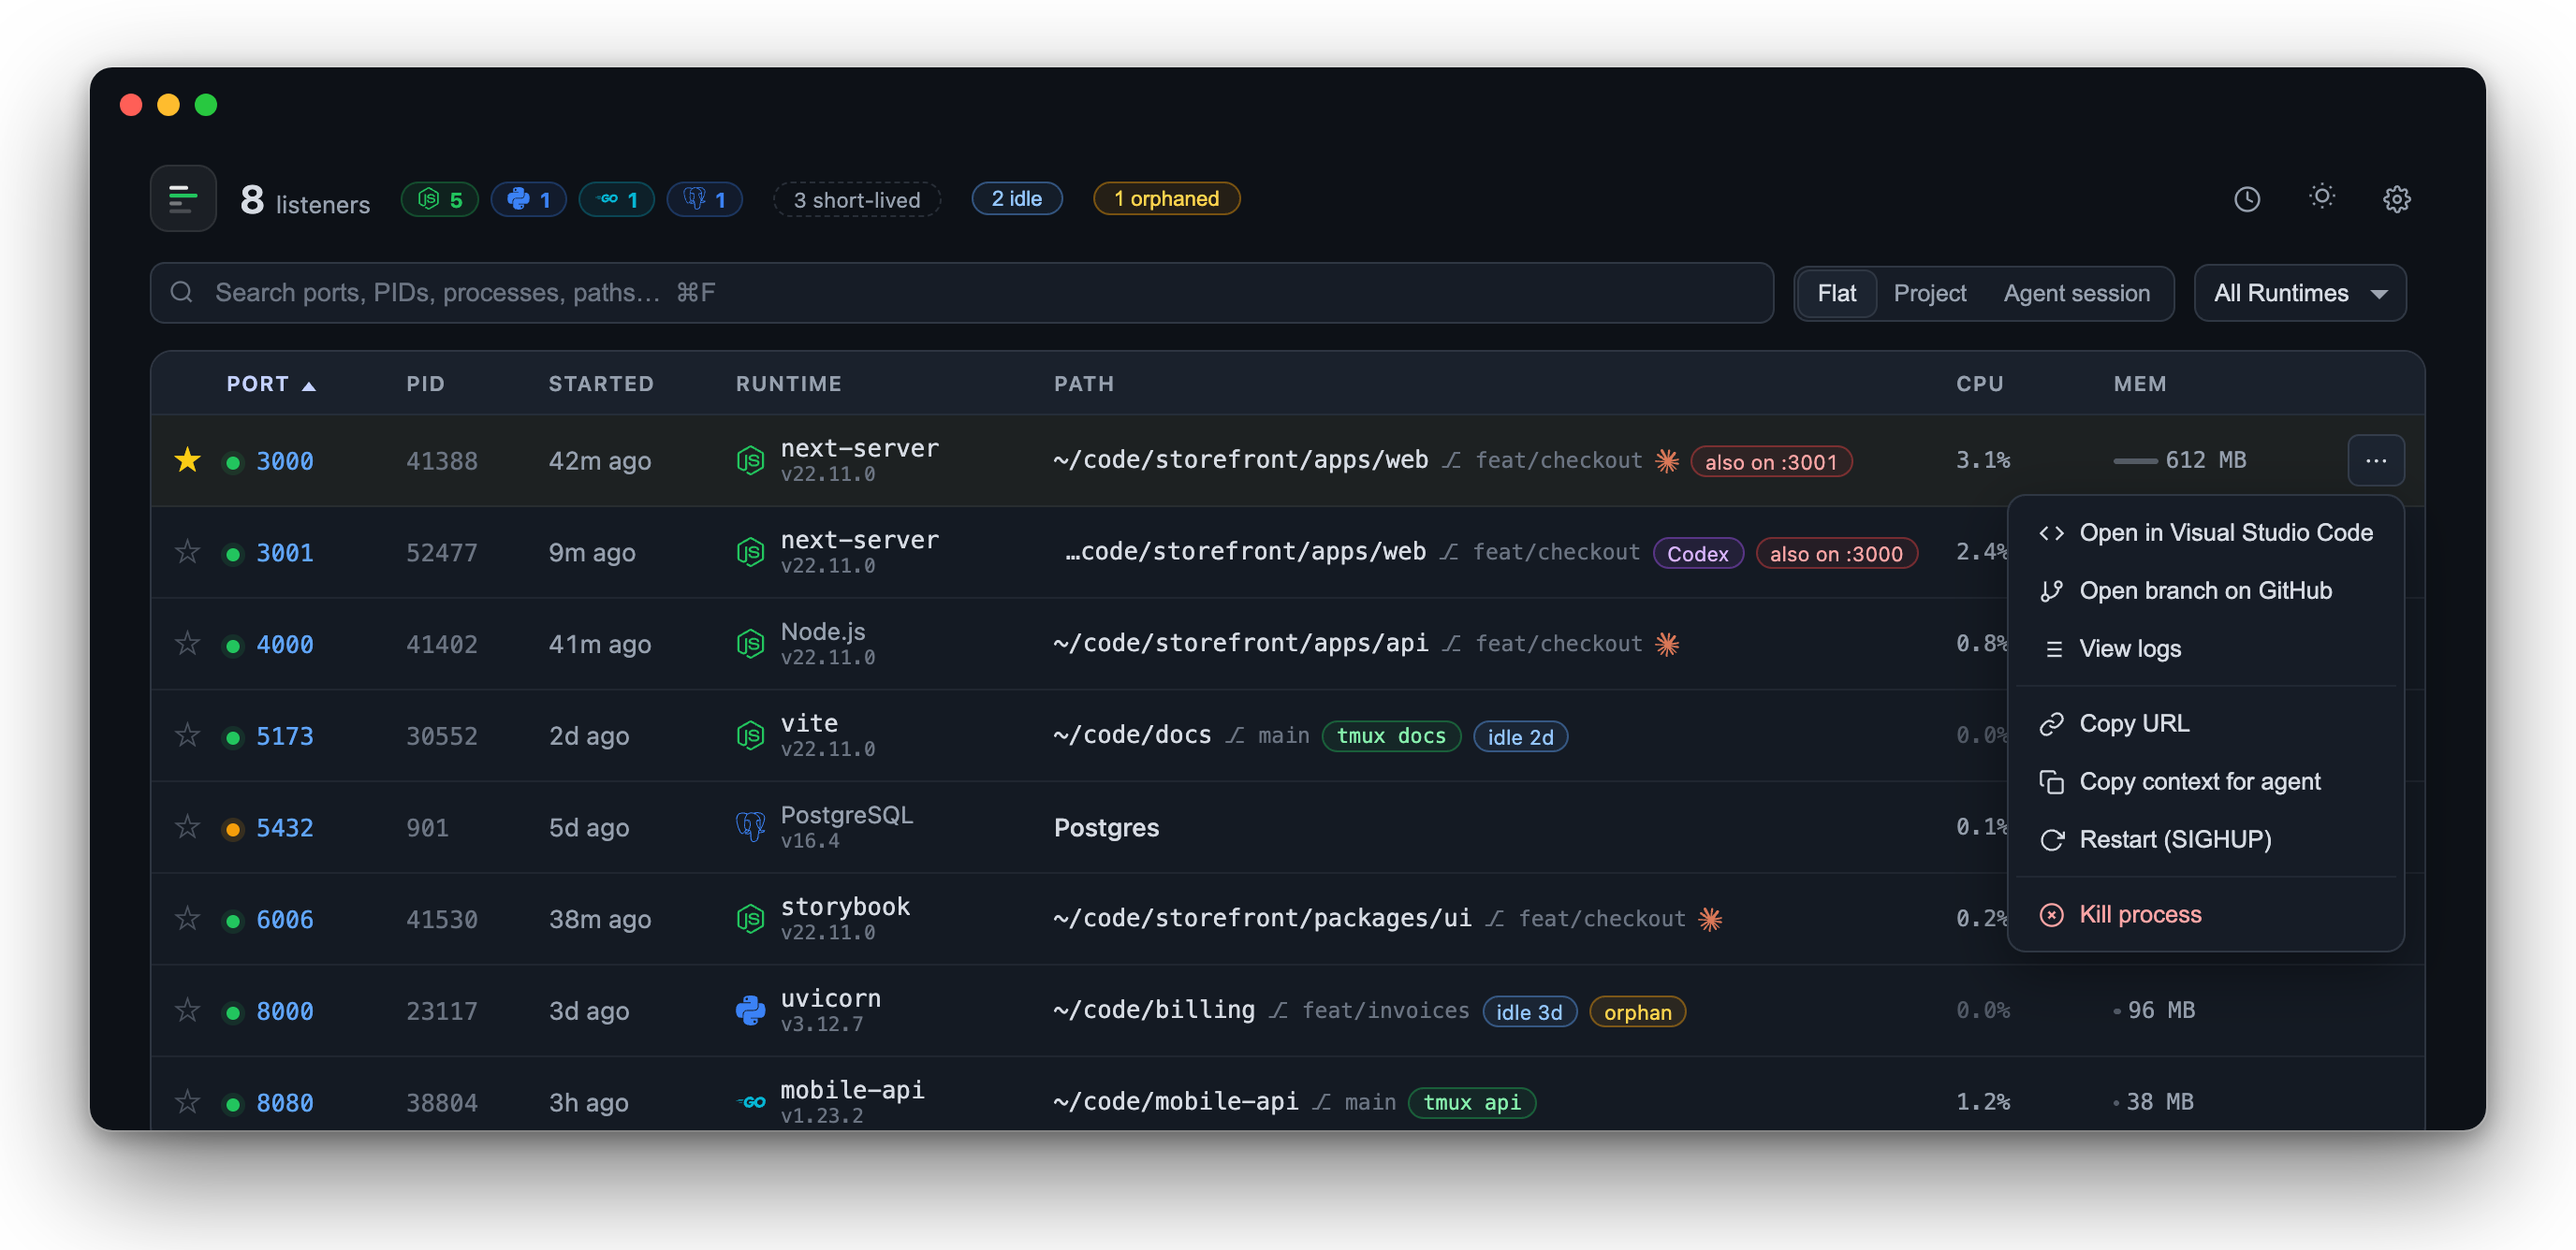
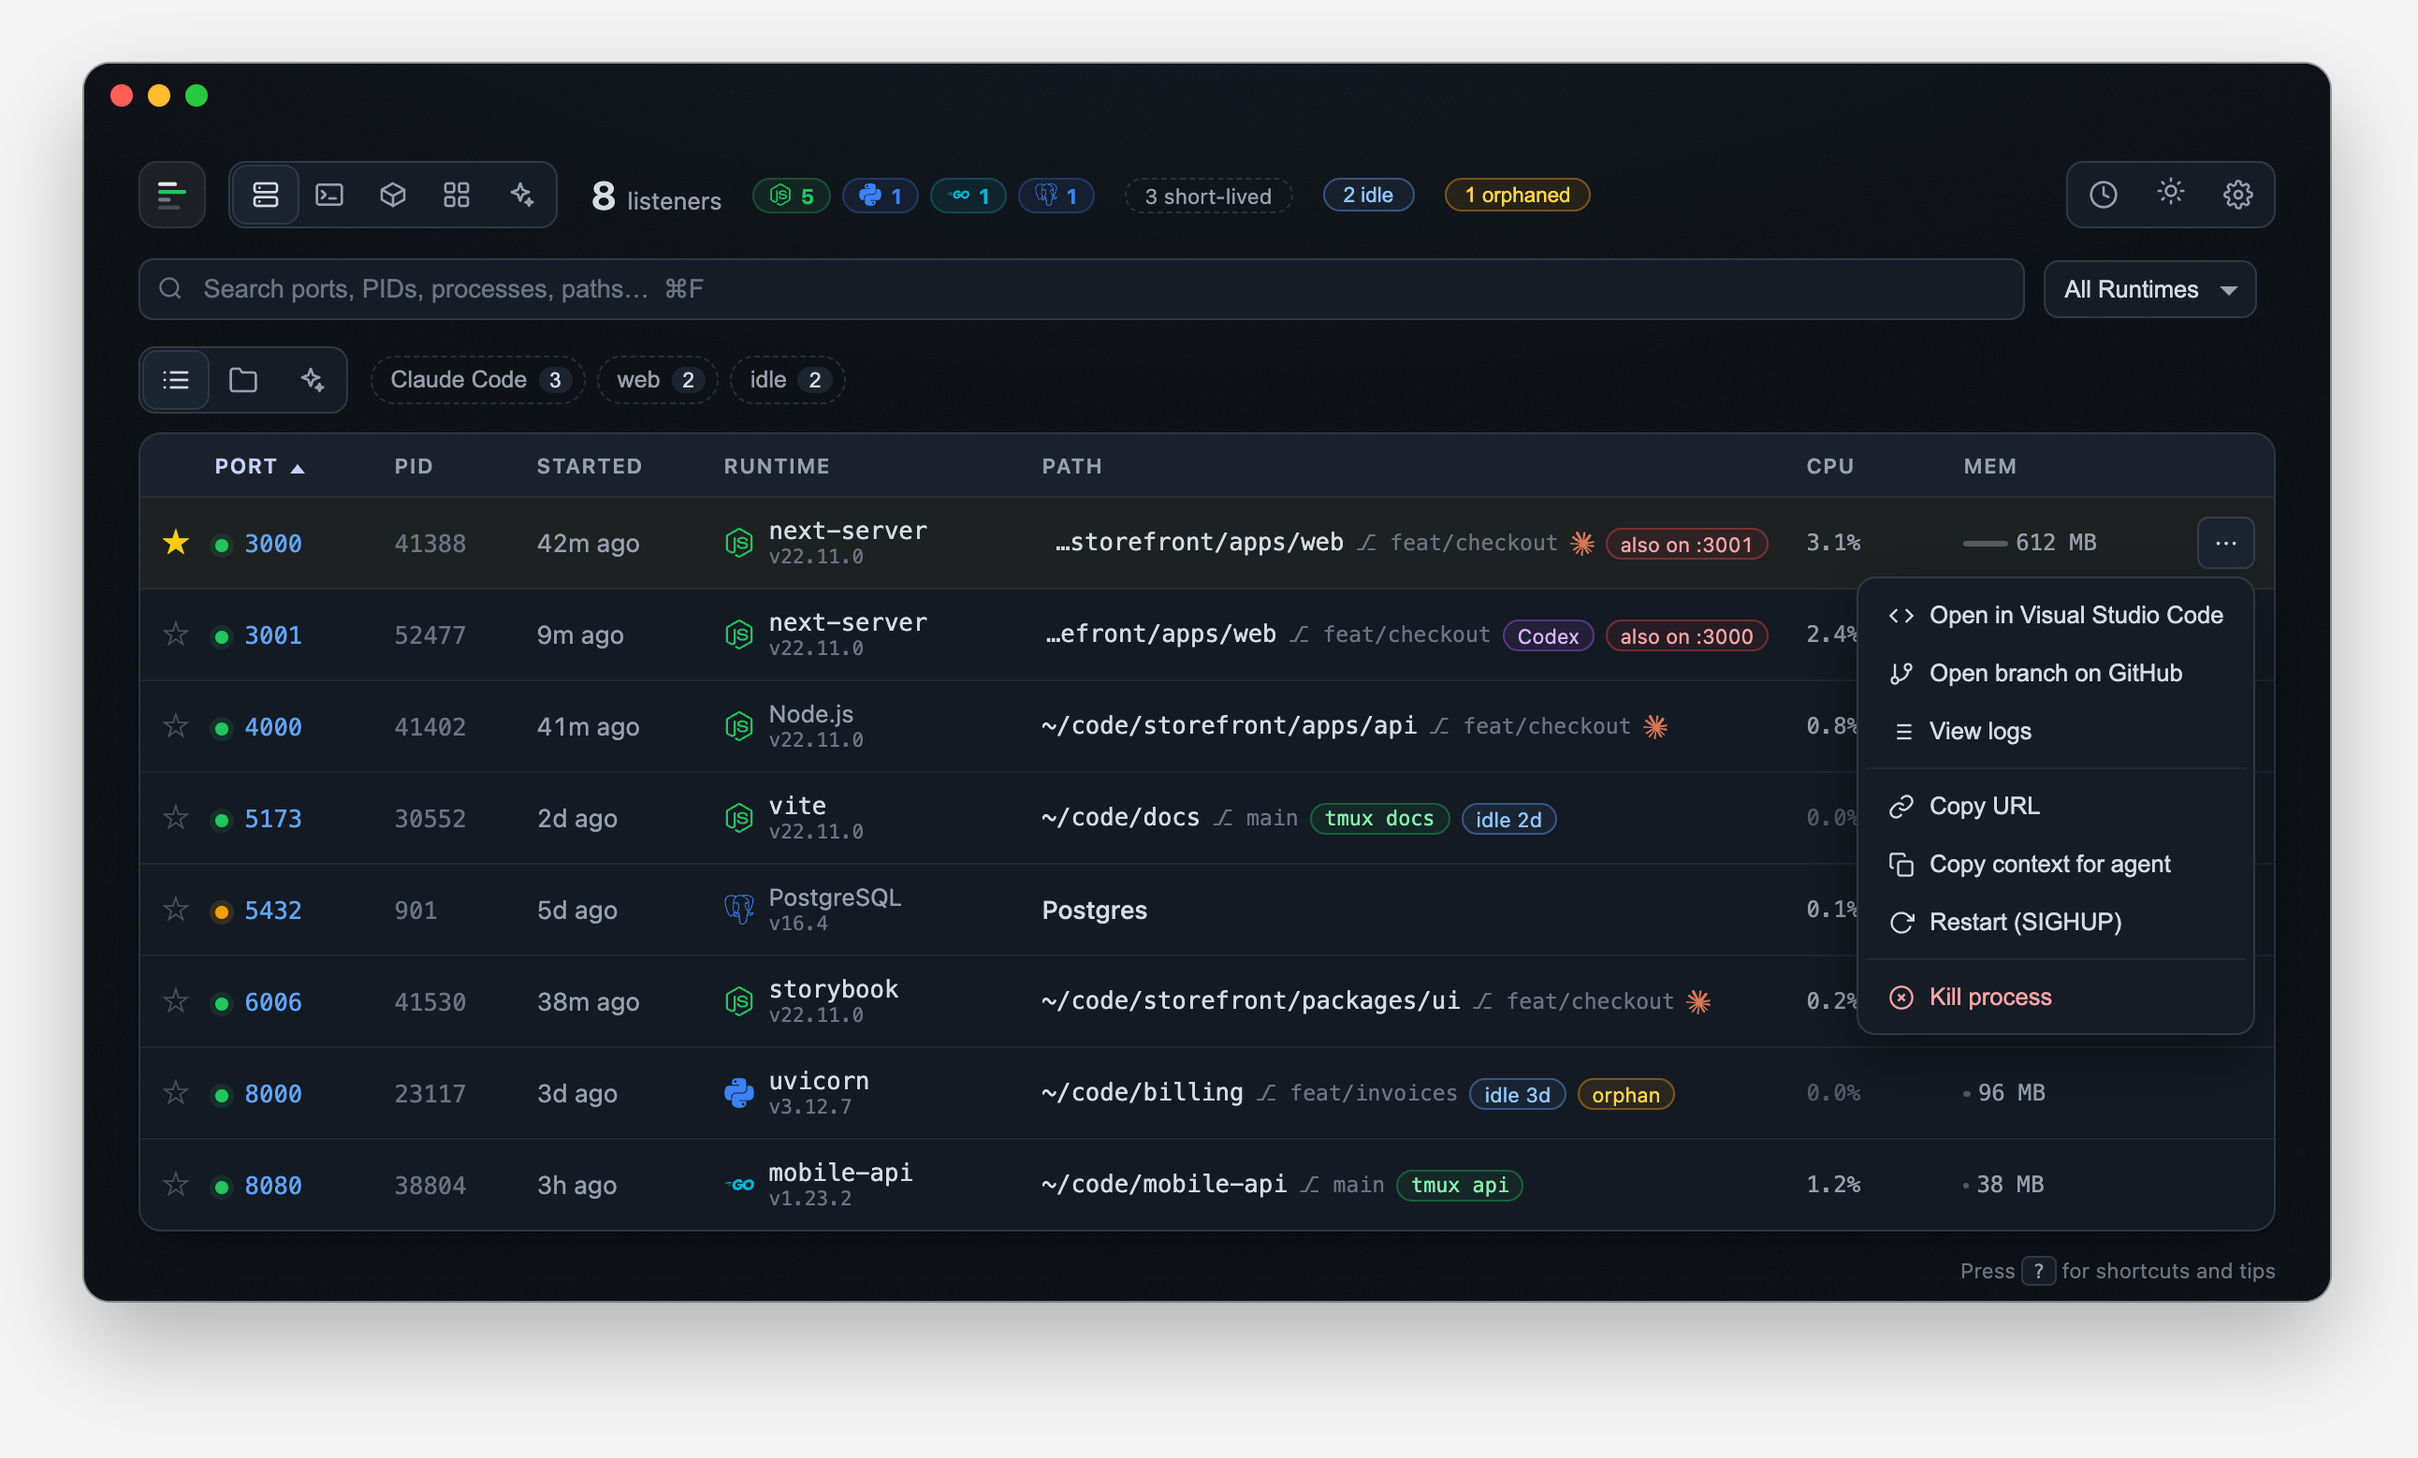
docs: screenshots for every tab, demo data for new tabs

diff --git a/demo.js b/demo.js
@@ -59,4 +59,102 @@ function demoTransient() {
   ];
 }
 
-module.exports = { demoPorts, demoTransient };
+// ── The other tabs ──────────────────────────────────────────────────
+const at = ago => Date.now() - ago;
+const gh = repo => `https://github.com/acme/${repo}`;
+
+function demoSessions() {
+  const base = { state: 'running', canOpen: true, canShow: true, canKill: true, canRename: true, idle: false };
+  const rows = [
+    { mux: 'tmux', id: 'storefront', attached: true, createdAt: at(5 * hour), lastActive: at(20 * 1000), windows: 3, panes: 4,
+      cwd: `${HOME}/code/storefront`, branch: 'feat/checkout', github: gh('storefront'), agents: ['Claude Code'],
+      agentState: { status: 'working', since: at(3 * min) }, ports: [3000, 4000, 6006] },
+    { mux: 'tmux', id: 'api', attached: false, createdAt: at(3 * hour), lastActive: at(12 * min), windows: 2, panes: 2,
+      cwd: `${HOME}/code/mobile-api`, branch: 'main', github: gh('mobile-api'), agents: [], agentState: null, ports: [8080] },
+    { mux: 'tmux', id: 'docs', attached: false, createdAt: at(2 * day), lastActive: at(2 * day), windows: 1, panes: 1,
+      cwd: `${HOME}/code/docs`, branch: 'main', github: gh('docs'), agents: [], agentState: null, ports: [5173], idle: true },
+    { mux: 'herdr', id: 't3', name: 'storefront / payments', attached: null, createdAt: at(26 * hour), lastActive: null, canRename: false,
+      cwd: `${HOME}/code/storefront`, branch: 'feat/payments', github: gh('storefront'), agents: ['Claude Code'],
+      agentState: { status: 'needs-you', since: at(4 * min) }, ports: [] },
+    { mux: 'herdr', id: 't5', name: 'billing / invoices', attached: null, createdAt: at(3 * day), lastActive: null, canRename: false,
+      cwd: `${HOME}/code/billing`, branch: 'feat/invoices', github: gh('billing'), agents: ['Codex'], agentState: { status: 'idle', since: null }, ports: [] },
+    { mux: 'herdr', id: 't6', name: 'design-system / tokens', attached: null, createdAt: at(4 * day), lastActive: null, canRename: false,
+      cwd: `${HOME}/code/design-system`, branch: 'chore/tokens', github: gh('design-system'), agents: ['Claude Code'],
+      agentState: { status: 'idle', since: at(40 * min) }, ports: [] },
+  ];
+  return {
+    sessions: rows.map(r => ({ ...base, name: r.id, ...r, key: `${r.mux}:${r.id}` })),
+    muxes: [{ mux: 'tmux', label: 'tmux', available: true }, { mux: 'herdr', label: 'Herdr', available: true }, { mux: 'zellij', label: 'Zellij', available: false }],
+  };
+}
+
+function demoAgents() {
+  const a = (pid, agent, name, state, cwd, branch, where, up, memMB, processes, ports = []) => ({
+    pid: String(pid), agent, name, state, cwd: `${HOME}/code/${cwd}`, branch, where,
+    sessionId: agent === 'Claude Code' ? `5f0c${pid}-demo` : null, startedAt: at(up), cpu: 0, memMB, processes, ports,
+  });
+  return { agents: [
+    a(41200, 'Claude Code', 'storefront', { status: 'working', since: at(3 * min) }, 'storefront', 'feat/checkout', { mux: 'tmux', id: 'storefront', name: 'storefront', target: '0.0' }, 5 * hour, 1210, 9, [3000, 4000, 6006]),
+    a(44710, 'Claude Code', 'payments', { status: 'needs-you', since: at(4 * min) }, 'storefront', 'feat/payments', { mux: 'herdr', id: 't3', name: 'storefront / payments' }, 26 * hour, 402, 3),
+    a(52310, 'Codex', 'storefront', null, 'storefront', 'feat/checkout', { app: 'Ghostty' }, 9 * min, 640, 4, [3001]),
+    a(47002, 'Claude Code', 'review-bot', { status: 'working', since: at(1 * min) }, 'storefront', 'feat/checkout', { background: true }, 14 * min, 318, 2),
+    a(39920, 'Claude Code', 'tokens', { status: 'idle', since: at(40 * min) }, 'design-system', 'chore/tokens', { mux: 'herdr', id: 't6', name: 'design-system / tokens' }, 4 * day, 287, 1),
+    a(36114, 'Claude Code', 'mobile-api', { status: 'idle', since: at(2 * hour) }, 'mobile-api', 'main', { app: 'Ghostty' }, 7 * hour, 344, 2),
+    a(30071, 'Codex', 'invoices', null, 'billing', 'feat/invoices', { mux: 'herdr', id: 't5', name: 'billing / invoices' }, 3 * day, 120, 2),
+    a(22981, 'OpenCode', 'billing', null, 'billing', 'feat/invoices', { detached: true, parent: null }, 3 * day, 96, 1),
+  ] };
+}
+
+// Real app bundles on this Mac give the icons; everything else is made up
+function demoApps() {
+  const GB = 1024;
+  const app = (name, kind, path, bundleId, memMB, cpu, procs, extra = {}) => ({
+    name, kind, path, bundleId, memMB, cpu, pid: String(1000 + name.length * 37 + memMB % 97),
+    launchedAt: at(extra.up || 2 * day), front: !!extra.front, arch: 'ARM64', version: extra.version || null,
+    electron: !!extra.electron, system: !!extra.system, user: false, ports: extra.ports || [],
+    processes: Array.from({ length: procs }, (_, i) => ({ pid: String(2000 + i + name.length * 50), name: i ? `${name} Helper` : name, own: true, cpu: i ? 0.1 : cpu, memMB: Math.round(memMB / procs), startedAt: at(extra.up || 2 * day) })),
+  });
+  return { apps: [
+    app('Google Chrome', 'app', '/Applications/Google Chrome.app', 'com.google.Chrome', 3.4 * GB, 12.1, 31, { version: '142.0.7444.60' }),
+    app('Slack', 'app', '/Applications/Slack.app', 'com.tinyspeck.slackmacgap', 1.2 * GB, 1.4, 7, { version: '4.47.59', electron: true }),
+    app('Zed', 'app', '/Applications/Zed.app', 'dev.zed.Zed', 880, 2.2, 4, { version: '0.211.4', up: 6 * hour }),
+    app('Ghostty', 'app', '/Applications/Ghostty.app', 'com.mitchellh.ghostty', 640, 3.8, 3, { version: '1.3.1', front: true, up: 9 * hour }),
+    app('Notion', 'app', '/Applications/Notion.app', 'notion.id', 590, 0.6, 6, { version: '6.2.0', electron: true, up: 1 * day }),
+    app('OrbStack', 'app', '/Applications/OrbStack.app', 'dev.kdrag0n.MacVirt', 410, 1.1, 5, { version: '2.0.4', ports: [5432, 6379], up: 5 * day }),
+    app('Raycast', 'menu', '/Applications/Raycast.app', 'com.raycast.macos', 260, 0.3, 3, { version: '1.104.1', up: 9 * day }),
+    app('1Password', 'menu', '/Applications/1Password.app', 'com.1password.1password', 230, 0.2, 3, { version: '8.11.16', electron: true, up: 9 * day }),
+    app('Notes', 'app', '/System/Applications/Notes.app', 'com.apple.Notes', 180, 0, 2, { version: '4.13', system: true, up: 3 * day }),
+  ] };
+}
+
+function demoContainers() {
+  const MB = 1024 * 1024;
+  const c = (id, name, image, state, status, project, ports, size, up, volumes = []) => ({
+    id: id.padEnd(64, '0'), name, image, imageId: `sha256:${image}`, state, status, createdAt: at(up), lastUsed: state === 'running' ? Date.now() : at(up / 2),
+    size, project, k8s: null, ports, volumes,
+  });
+  const containers = [
+    c('a1f3', 'storefront-db-1', 'postgres:16', 'running', 'Up 5 days', 'storefront', [5432], 63 * MB, 5 * day, ['storefront_pgdata']),
+    c('b7e2', 'storefront-redis-1', 'redis:7-alpine', 'running', 'Up 5 days', 'storefront', [6379], 2 * MB, 5 * day),
+    c('c9d0', 'storefront-mailpit-1', 'axllent/mailpit', 'running', 'Up 5 days', 'storefront', [8025], 1 * MB, 5 * day),
+    c('d4a8', 'billing-db-1', 'postgres:15', 'exited', 'Exited (0) 3 weeks ago', 'billing', [], 41 * MB, 30 * day, ['billing_pgdata']),
+    c('e2c6', 'nostalgic_hopper', 'node:22', 'exited', 'Exited (1) 2 weeks ago', null, [], 210 * MB, 16 * day),
+  ];
+  const img = (tag, size, users, running) => ({ id: `sha256:${tag}`, tags: tag ? [tag] : [], size: size * MB, unique: size * MB, createdAt: at(20 * day), containers: users, running, lastUsed: users ? Date.now() : null });
+  const images = [img('postgres:16', 438, 1, true), img('redis:7-alpine', 41, 1, true), img('axllent/mailpit', 32, 1, true), img('postgres:15', 412, 1, false), img('node:22', 1120, 1, false), img('', 980, 0, false), img('python:3.12-slim', 155, 0, false)];
+  const volumes = [
+    { name: 'storefront_pgdata', size: 312 * MB, containers: 1, createdAt: at(40 * day), running: true, lastUsed: Date.now(), anonymous: false, project: 'storefront' },
+    { name: 'billing_pgdata', size: 128 * MB, containers: 1, createdAt: at(60 * day), running: false, lastUsed: at(21 * day), anonymous: false, project: 'billing' },
+    { name: '9c1e'.padEnd(64, 'a'), size: 54 * MB, containers: 0, createdAt: at(50 * day), running: false, lastUsed: null, anonymous: true, project: null },
+  ];
+  return {
+    available: true, k8sContext: null, containers, images, volumes,
+    buildCache: { count: 48, size: 2400 * MB, reclaimable: 1900 * MB, lastUsed: at(2 * day) },
+    reclaimable: {
+      containers: { count: 2, size: 251 * MB }, images: { count: 2, size: 1135 * MB }, dangling: { count: 1, size: 980 * MB },
+      volumes: { count: 1, size: 54 * MB }, build: { count: 40, size: 1900 * MB },
+    },
+  };
+}
+
+module.exports = { demoPorts, demoTransient, demoSessions, demoAgents, demoApps, demoContainers };

diff --git a/sources/containers.js b/sources/containers.js
@@ -94,7 +94,7 @@ module.exports = function containers(ctx) {
   }
 
   async function scan() {
-    if (ctx.DEMO) return { available: false, reason: 'Containers are hidden in demo mode' };
+    if (ctx.DEMO) return require('../demo').demoContainers();
     if (!await connect()) return { available: false, reason: "Docker isn't running" };
     const df = await api('GET', '/system/df');
     if (df.status !== 200) { socketPath = null; return { available: false, reason: df.body?.message || "Docker isn't answering" }; }

diff --git a/sources/sessions.js b/sources/sessions.js
@@ -20,7 +20,7 @@ module.exports = function sessions(ctx) {
   let last = []; // sessions from the latest scan; actions only accept these
 
   async function scan() {
-    if (ctx.DEMO) return { sessions: [], muxes: [] };
+    if (ctx.DEMO) return require('../demo').demoSessions();
     const results = await Promise.all(adapters.map(async a => {
       if (!a.bin()) return { mux: a.mux, available: false, sessions: [] };
       try { return { mux: a.mux, available: true, sessions: await a.list() }; }

diff --git a/sources/apps.js b/sources/apps.js
@@ -64,7 +64,10 @@ module.exports = function apps(ctx) {
   }
 
   async function scan() {
-    if (ctx.DEMO) return { apps: [] };
+    if (ctx.DEMO) { // real bundles, so the icons are real
+      last = await Promise.all(require('../demo').demoApps().apps.map(async a => ({ ...a, hasIcon: !!(await bundleInfo(a.path)).icon })));
+      return { apps: last };
+    }
     const r = await ctx.run('lsappinfo', ['list']);
     const procs = ctx.procs();
     const ports = ctx.ports();

diff --git a/sources/coding.js b/sources/coding.js
@@ -19,7 +19,7 @@ module.exports = function coding(ctx) {
   }
 
   async function scan() {
-    if (ctx.DEMO) return { agents: [] };
+    if (ctx.DEMO) return require('../demo').demoAgents();
     const procs = ctx.procs();
     const kids = childrenOf(procs);
     const isAgent = pid => procs[pid] && !procs[pid].comm.includes('.app/') && !/ bg-/.test(procs[pid].comm) && ctx.agentOf(procs[pid].comm);

diff --git a/README.md b/README.md
@@ -47,6 +47,14 @@ Click a server's `tmux` badge and its session opens right here, splits and windo
 
 DevDock reads Claude Code's own status, so it doesn't guess whether a session is working, waiting on a permission prompt, or done. Codex and OpenCode don't report this, so they show no state.
 
+<p align="center"><img src="docs/agents.png" alt="Agents: every coding agent, its state, folder and where it runs" /></p>
+
+<p align="center"><img src="docs/sessions.png" alt="Sessions: tmux and Herdr sessions with Claude Code state icons" /></p>
+
+<p align="center"><img src="docs/apps.png" alt="Apps: running Mac apps, menu bar apps and their processes" /></p>
+
+<p align="center"><img src="docs/containers.png" alt="Containers: Docker containers, images, volumes and cleanup" /></p>
+
 ## Shortcuts
 
 Hold `⌘`, `⌥` or `⌃` and every button you can reach shows the key to press next.
